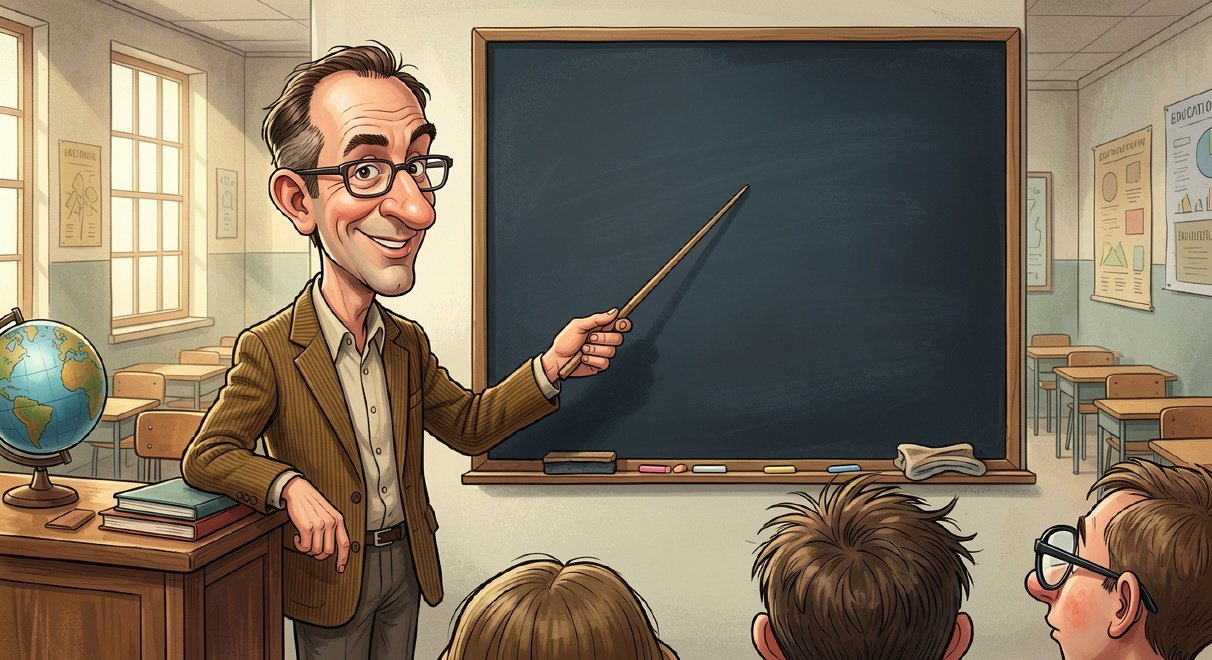
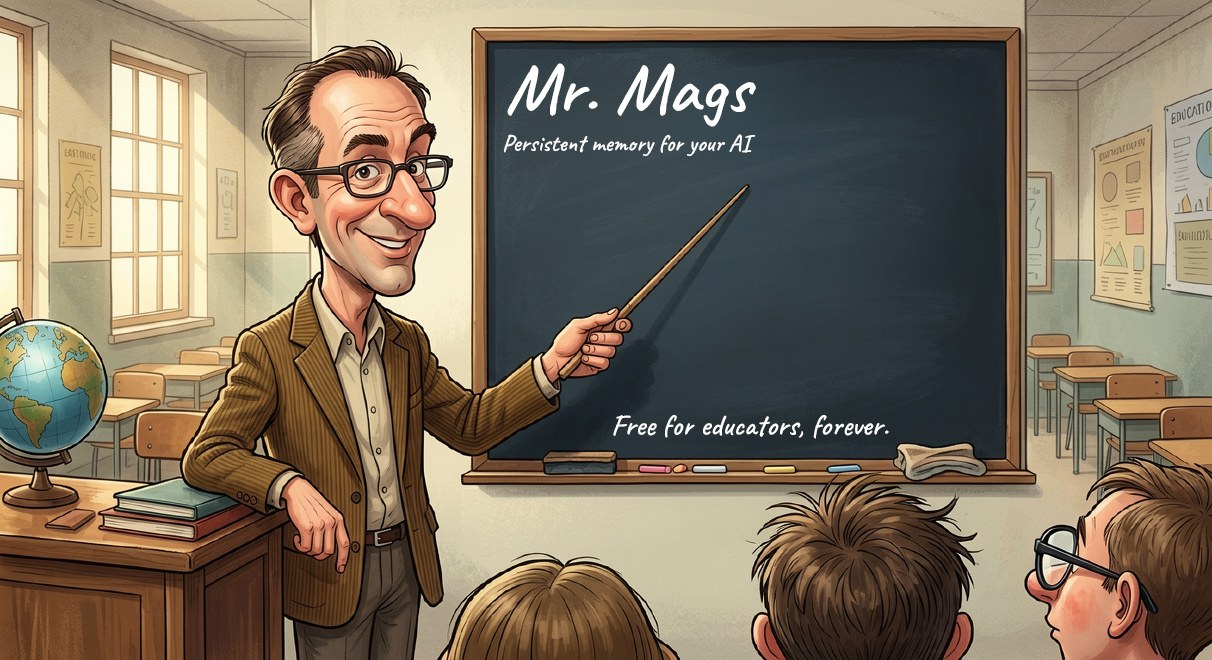
hero: new chalk-baked photo + simplify nav (photo carries brand + tagline)

Changed region(s): [[0.3969, 0.0909, 0.6411, 0.2424], [0.4884, 0.6364, 0.7327, 0.6667]]

diff --git a/assets/site.css b/assets/site.css
@@ -111,58 +111,13 @@ a:hover { color: var(--accent); }
    wide where the cartoon image isn't framing the layout the same way. */
 
 @media (min-width: 900px) {
-  /* Brand lives in the photo itself — drop the desktop word-mark in the topbar. */
+  /* Brand + chalk taglines live in the photo itself now — drop the desktop
+     word-mark in the topbar and let the nav sit normally in the top-right. */
   .hero[data-photo="true"] .logo { display: none; }
 
   .hero[data-photo="true"] .topbar {
-    align-items: flex-start;
-    padding-top: 36px;
     justify-content: flex-end;
-  }
-
-  .hero[data-photo="true"] .nav {
-    /* Lift the nav off the topbar and onto the chalkboard. The chalkboard
-       lives roughly between 31% and 71% of the (1.84:1) image; we anchor
-       to the right side of the board where there's empty chalk space. */
-    position: absolute;
-    top: clamp(140px, 26vh, 280px);
-    right: clamp(100px, 22vw, 360px);
-    flex-direction: column;
-    align-items: flex-start;
-    gap: 6px;
-    transform: rotate(-1.4deg);
-  }
-
-  .hero[data-photo="true"] .nav a {
-    /* Chalk styling — Caveat is the chalkboard hand */
-    font-family: "Caveat", "Inkfree", "Comic Sans MS", cursive;
-    font-weight: 500;
-    font-size: clamp(20px, 2.1vw, 28px);
-    letter-spacing: 0.01em;
-    text-transform: none;
-    color: rgba(247, 246, 240, 0.92);
-    /* Soft chalk-dust glow rather than a hard outline */
-    text-shadow:
-      0 0 1px rgba(255, 255, 255, 0.4),
-      0 1px 2px rgba(0, 0, 0, 0.25);
-    padding: 2px 4px;
-  }
-
-  .hero[data-photo="true"] .nav a::before {
-    content: "— ";
-    opacity: 0.6;
-  }
-
-  .hero[data-photo="true"] .nav a:hover {
-    color: #fff;
-    text-shadow:
-      0 0 6px rgba(255, 255, 255, 0.5),
-      0 1px 2px rgba(0, 0, 0, 0.3);
-  }
-
-  /* Disable the underline-on-hover behavior — looks weird on chalk */
-  .hero[data-photo="true"] .nav a:hover::after {
-    display: none;
+    padding-top: 32px;
   }
 }
 

diff --git a/index.html b/index.html
@@ -16,7 +16,7 @@
 <link rel="icon" href="/favicon.ico" />
 <link rel="preconnect" href="https://fonts.googleapis.com" />
 <link rel="preconnect" href="https://fonts.gstatic.com" crossorigin />
-<link rel="stylesheet" href="/assets/site.css?v=6" />
+<link rel="stylesheet" href="/assets/site.css?v=7" />
 </head>
 
 <body>
